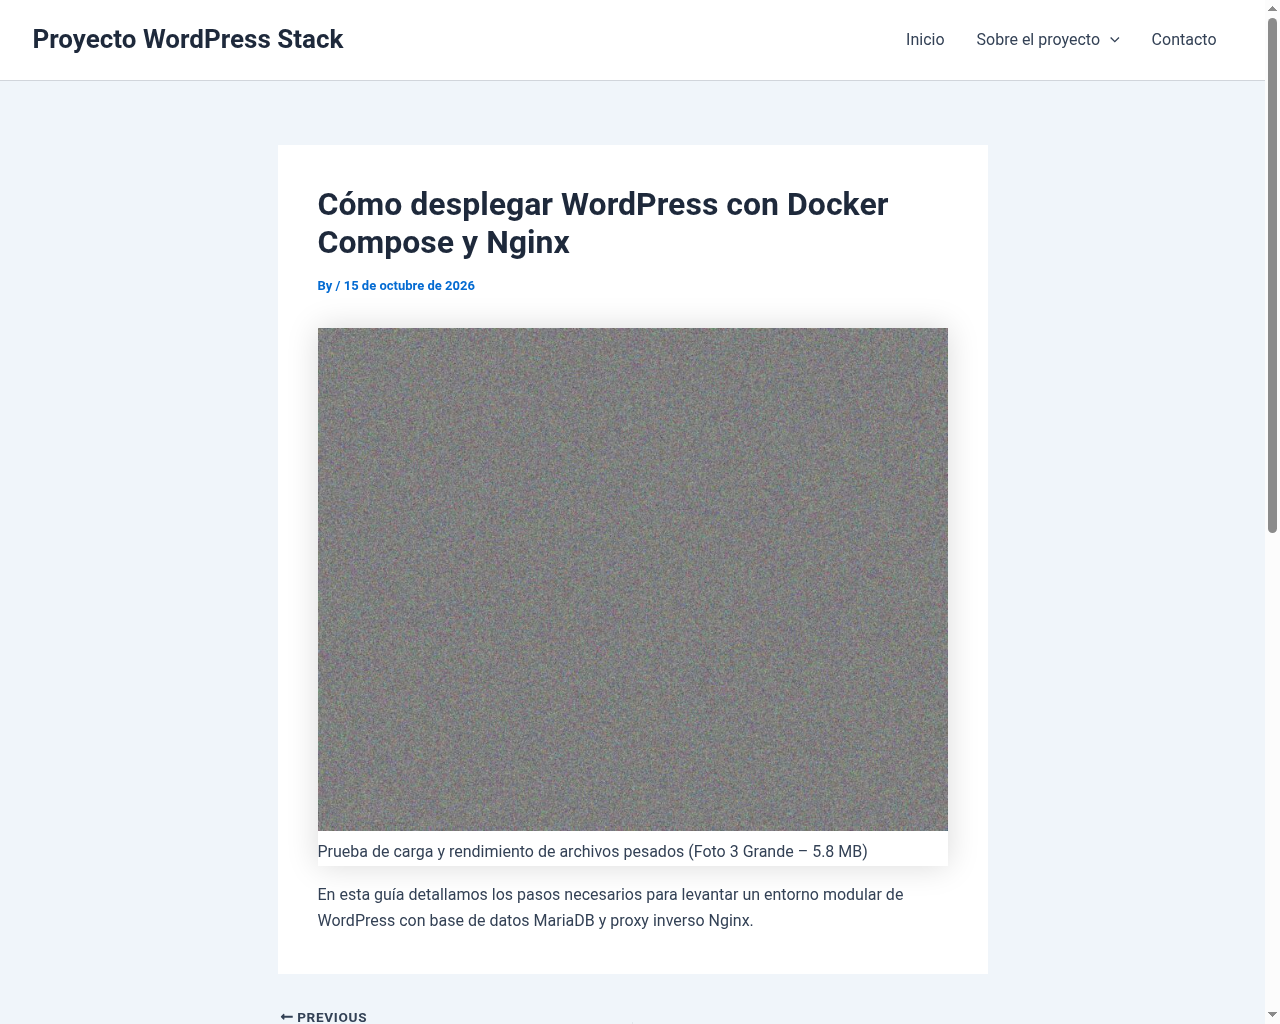
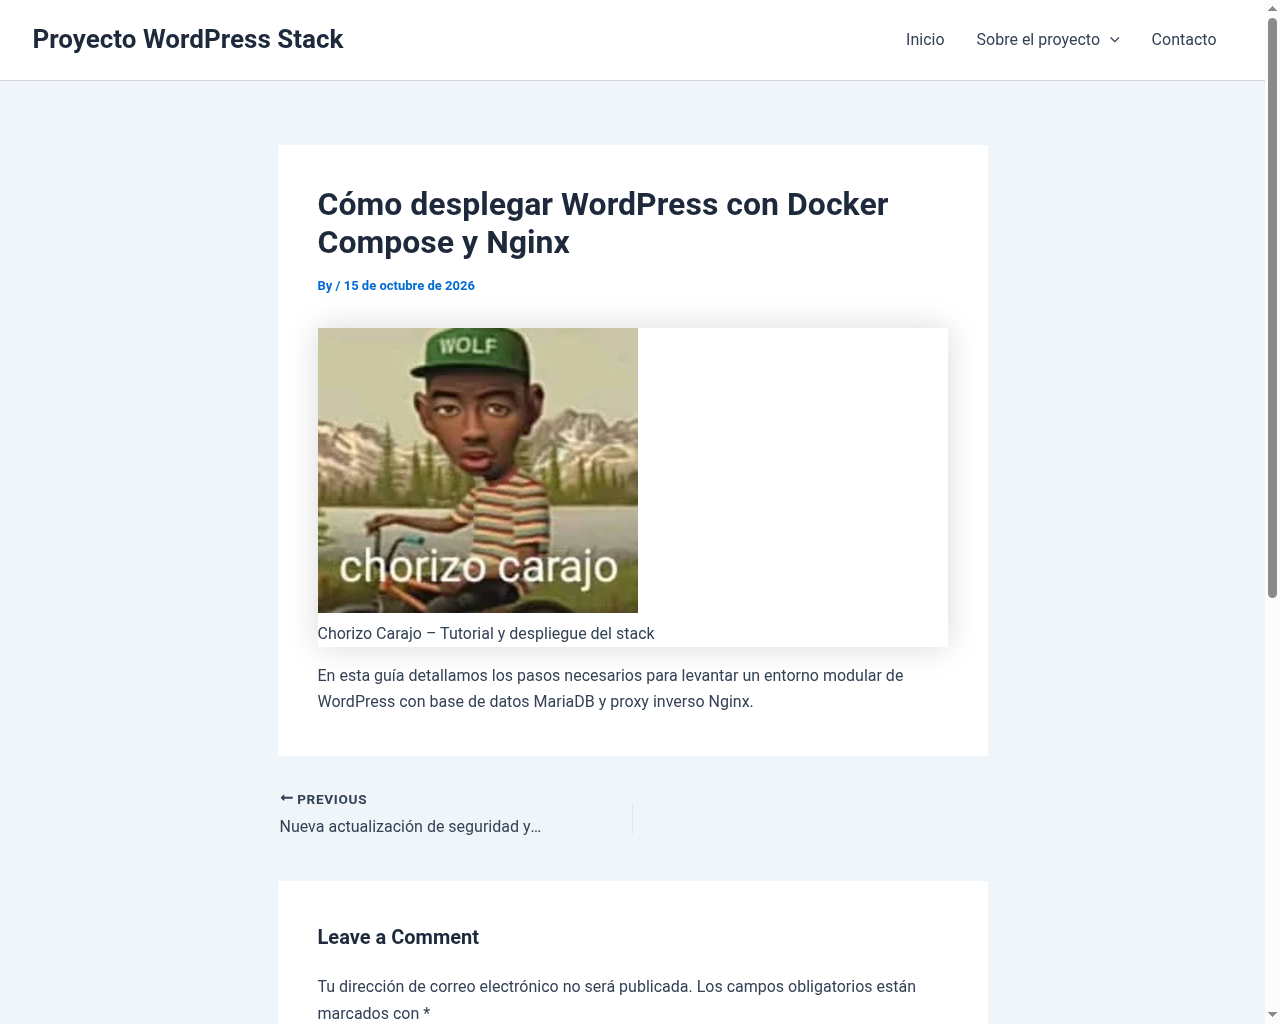
docs: actualizar imágenes con mordecai, vegeta y chorizo carajo

Changed region(s): [[0.2188, 0.3125, 0.75, 1.0], [0.9688, 0.5312, 1.0, 0.5938]]

diff --git a/docs/personalizacion.md b/docs/personalizacion.md
@@ -37,10 +37,10 @@
 
 ### 3 entradas repartidas en 2 categorías
 - **Categoría: Novedades**
-  1. *Lanzamiento oficial de la plataforma web:* Anuncio de la puesta en marcha de la infraestructura web basada en contenedores. Contiene la imagen adjunta `foto1.jpg`.
-  2. *Nueva actualización de seguridad y rendimiento:* Detalle de los ajustes aplicados en PHP-FPM y Nginx. Contiene la imagen adjunta `foto2.png`.
+  1. *Lanzamiento oficial de la plataforma web:* Anuncio de la puesta en marcha de la infraestructura web basada en contenedores. Contiene la imagen adjunta `mordecai.jpg`.
+  2. *Nueva actualización de seguridad y rendimiento:* Detalle de los ajustes aplicados en PHP-FPM y Nginx. Contiene la imagen adjunta `vegeta.png`.
 - **Categoría: Tutoriales**
-  3. *Cómo desplegar WordPress con Docker Compose y Nginx:* Guía paso a paso sobre el levantamiento modular de los servicios. Contiene la imagen adjunta `foto3-grande.jpg`.
+  3. *Cómo desplegar WordPress con Docker Compose y Nginx:* Guía paso a paso sobre el levantamiento modular de los servicios. Contiene la imagen adjunta `chorizo carajo.webp`.
 
 ### Menú principal
 - Creado en **Apariencia → Menús** con el nombre `Menú Principal` y asignado a la ubicación principal (**Primary Menu**) del tema Astra.
@@ -54,10 +54,10 @@
 
 ## 3. Subida de imágenes y persistencia en volumen (Paso 4)
 
-Se han subido 3 imágenes a la biblioteca de medios de WordPress, incluyendo una imagen grande para comprobar la capacidad y los límites de subida:
-1. `foto1.jpg` (~8.2 KB, formato JPEG).
-2. `foto2.png` (~4.0 KB, formato PNG).
-3. `foto3-grande.jpg` (5.8 MB, formato JPEG de alta resolución).
+Se han subido las 3 imágenes a la biblioteca de medios de WordPress:
+1. `mordecai.jpg` (42 KB, formato JPEG).
+2. `vegeta.png` (297 KB, formato PNG).
+3. `chorizo carajo.webp` (11 KB, formato WebP).
 
 ### Verificación del volumen en el contenedor
 Al ejecutar el comando indicado en la guía:
@@ -74,18 +74,22 @@ Se comprueba que las imágenes se organizan correctamente por año y mes dentro 
 10
 
 /var/www/html/wp-content/uploads/2026/10:
-foto1-150x150.jpg          foto2-300x225.png          foto3-grande-1536x1229.jpg
-foto1-300x225.jpg          foto2-768x576.png          foto3-grande-2048x1638.jpg
-foto1-768x576.jpg          foto2.png                  foto3-grande-300x240.jpg
-foto1.jpg                  foto3-grande-1024x819.jpg  foto3-grande-768x614.jpg
-foto2-150x150.png          foto3-grande-150x150.jpg   foto3-grande.jpg
+chorizo-carajo-150x150.webp
+chorizo-carajo-300x267.webp
+chorizo-carajo.webp
+mordecai-150x150.jpg
+mordecai-300x233.jpg
+mordecai.jpg
+vegeta-150x150.png
+vegeta-295x300.png
+vegeta.png
 ```
 
 ---
 
 ## 4. Configuración de límites de PHP en Git (Paso 6)
 
-Para permitir la subida de archivos de gran tamaño (como `foto3-grande.jpg`), se configuró el archivo [config/uploads.ini](file:///home/sersalgom2/Documents/proyecto-wordpress-stack/config/uploads.ini):
+Para gestionar cargas en el servidor y asegurar la configuración requerida, se configuró el archivo [config/uploads.ini](file:///home/sersalgom2/Documents/proyecto-wordpress-stack/config/uploads.ini):
 ```ini
 ; Límites de PHP para WordPress
 upload_max_filesize = 64M
@@ -122,10 +126,10 @@ upload_max_filesize => 64M => 64M
 #### Tema final personalizado (Astra)
 ![Tema después](img/tema-despues.png)
 
-### Portada estática con Menú, Últimas Entradas y Galería de Imágenes
+### Portada estática con Menú, Últimas Entradas y Galería de Imágenes (Mordecai, Vegeta y Chorizo Carajo)
 ![Portada estática completa](img/portada-completa.png)
 
-### Detalle de entrada con imagen asociada (Prueba de subida pesada)
+### Detalle de entrada con imagen asociada
 ![Entrada individual](img/entrada-detalle.png)
 
 ### Formulario de contacto (Plugin WPForms Lite)
